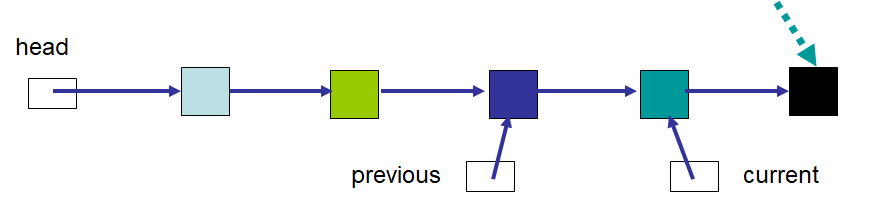
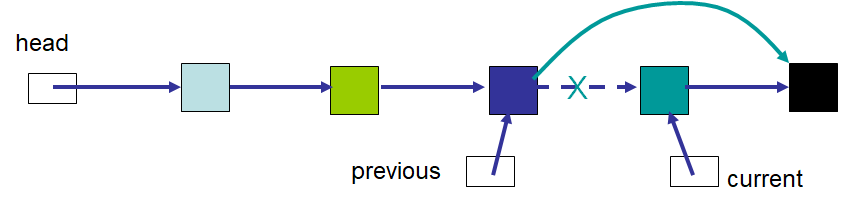
clean remove and remove dumb image

Changed region(s): [[0.0305, 0.0, 1.0, 0.9458], [0.0, 0.1773, 0.0914, 0.2956], [0.0305, 0.532, 0.0914, 0.5616]]

diff --git a/src/site/topics/linked-structures/linked-structures.rst b/src/site/topics/linked-structures/linked-structures.rst
@@ -185,45 +185,50 @@ Adding to the End
 Removing from a Linked Structure
 =================================
 
-Deleting from the Front
------------------------
-
-* Removing from the front may be the easiest operation
-
-.. image:: remove_front0.png
-   :width: 500 px
-   :align: center
-
-* Make head, the reference to the start of the linked structure, point to the first node's ``next``
-
-.. image:: remove_front1.png
-   :width: 500 px
-   :align: center
-
-
-Deleting from the Middle
-------------------------
-
-.. image:: remove_middle0.png
-   :width: 500 px
-   :align: center
-
-* Locate the node to be deleted (``current``) and the node immediately before it (``previous``)
-
-.. image:: remove_middle1.png
-   :width: 500 px
-   :align: center
-
-* Make the proceeding node's (``previous``) ``next`` reference the node to be deleted's (``current``) ``next``
-
-.. image:: remove_middle2.png
-   :width: 500 px
-   :align: center
-
-Deleting from the End
+Remove from the Front
 ---------------------
 
-* Is deleting from the end a special case?
+* Removing from the front may be the easiest operation
+* Given a reference to the front of the linked structure (``head``)
+
+.. figure:: remove_front0.png
+    :width: 500 px
+    :align: center
+
+* Update ``head``, the reference to the front of the linked structure, to refer to the current front's ``next``
+
+
+.. figure:: remove_front1.png
+    :width: 500 px
+    :align: center
+
+* With no reference to the old front, it is effectively removed from the linked structure
+
+
+Remove from the Middle
+----------------------
+
+* Given a reference to the front of the linked structure (``head``)
+* Locate the node to be removed (``current``) and the node immediately before it (``previous``)
+
+.. figure:: remove_middle0.png
+    :width: 500 px
+    :align: center
+
+* Have the predecessor's (``previous``) ``next`` refer to the node being removed's (``current``) ``next``
+
+
+.. figure:: remove_middle1.png
+    :width: 500 px
+    :align: center
+
+* There is now no way to access the removed node from the linked structure
+
+
+Remove from the End
+-------------------
+
+* Like adding to the end of a linked structure, the process of removing from the end is the same as removing from the middle
 
 
 Node Implementation
